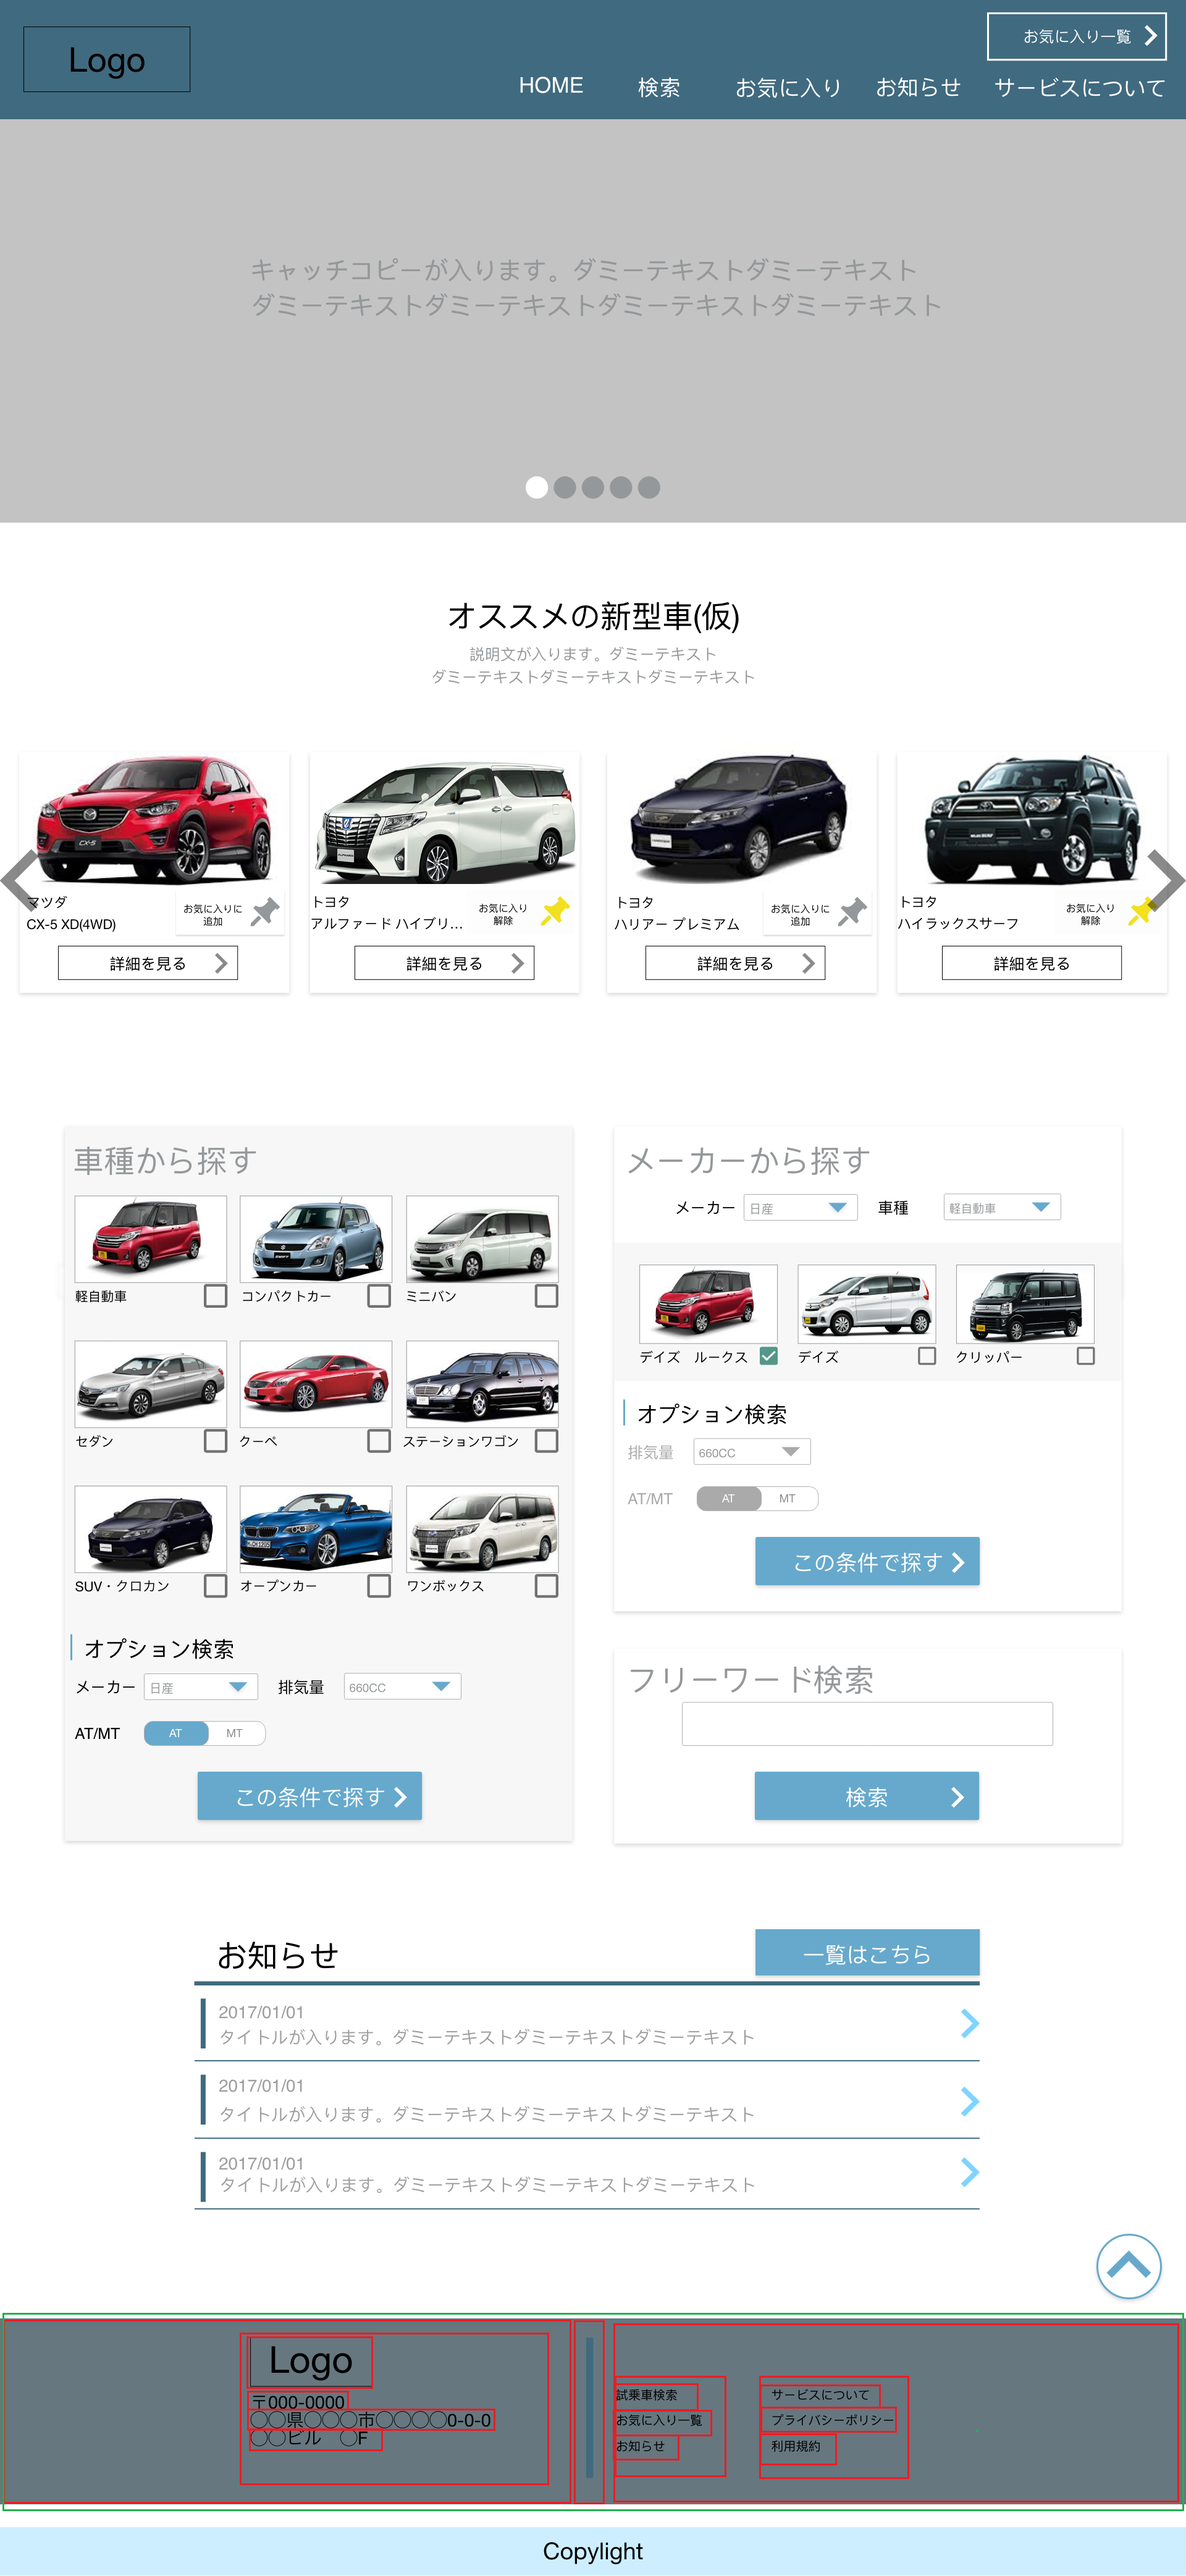
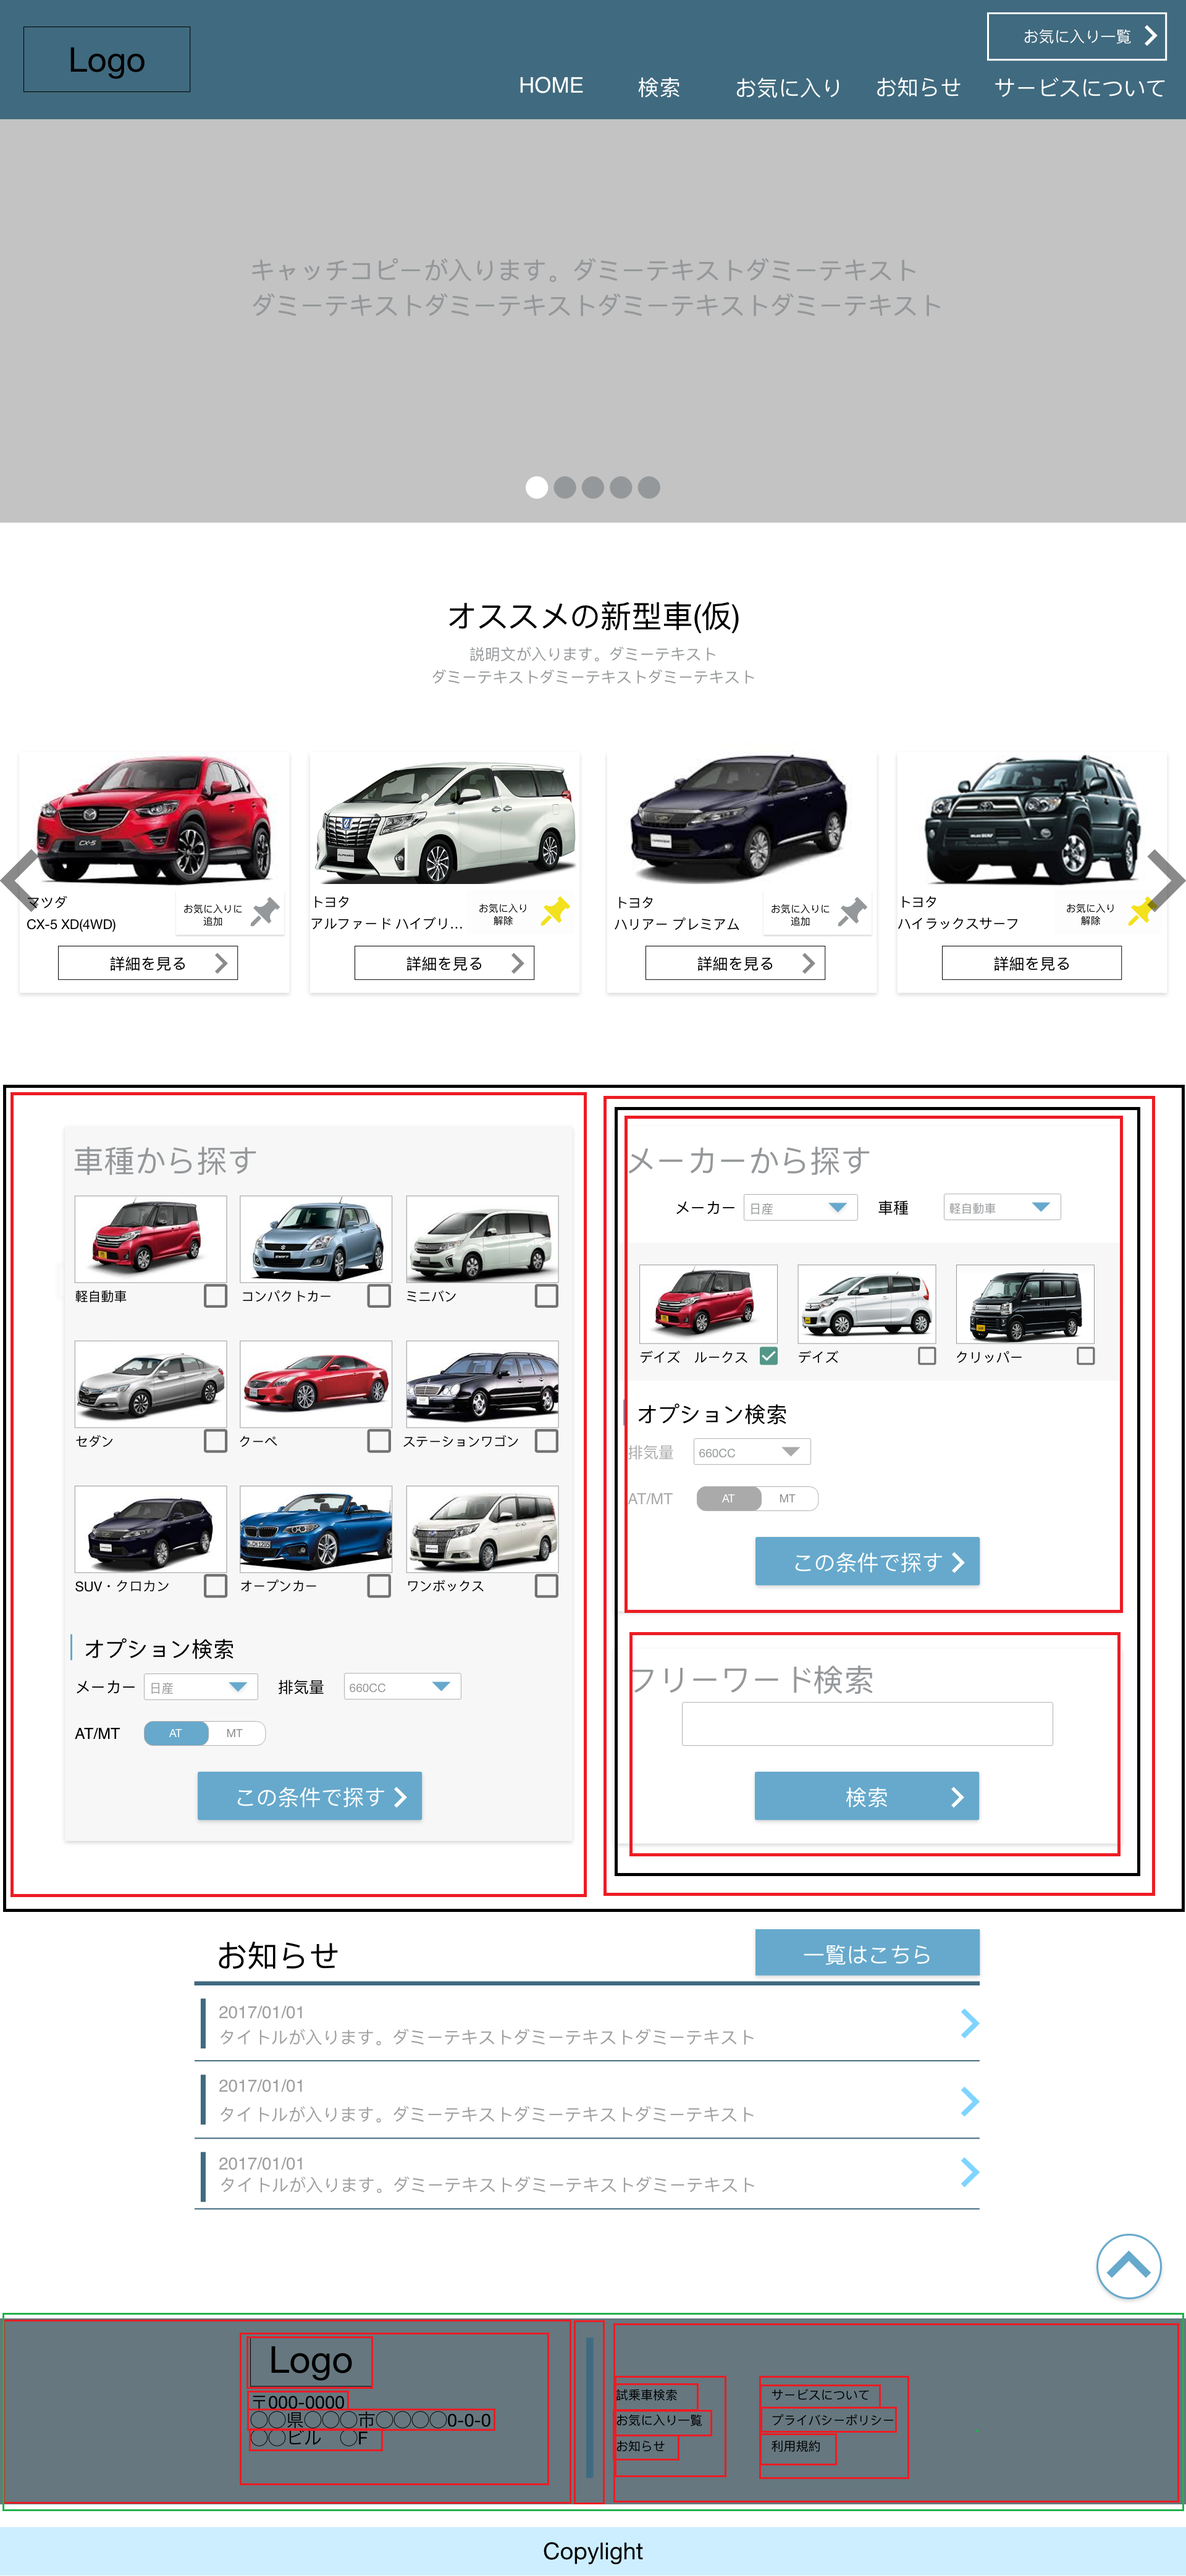
Adding free search section

Changed region(s): [[0.4688, 0.4053, 1.0, 0.7482], [0.0, 0.4053, 0.0312, 0.7482]]

diff --git a/index.html b/index.html
@@ -713,134 +713,160 @@
           <section class="d-md-none mobileWhiteSpace"></section>
 
           <!-- Right Side - Search by Maker section -->
-          <div class="col searchByMaker ms-md-5">
-            <div class="makerTitle">
-              <h1 class="text-black-50">Search by Maker</h1>
-            </div>
-            <div class="makerDropdownMenu">
-              <h5 class="d-inline mt-2 align-middle mx-3">Maker</h5>
-              <!-- Need to make a regular dropdown with custom CSS for inserting the img file in assets folder for the dropdown arrow -->
-              <div class="btn-group">
-                <button
-                  type="button"
-                  class="btn btn-white dropdown-toggle"
-                  data-bs-toggle="dropdown"
-                  aria-expanded="false"
-                >
-                  Action
-                </button>
-                <ul class="dropdown-menu">
-                  <li><a class="dropdown-item" href="#">Nissan</a></li>
-                </ul>
-              </div>
-              <h5 class="d-inline mt-2 align-middle mx-3">Model Type</h5>
-              <!-- Need to make a regular dropdown with custom CSS for inserting the img file in assets folder for the dropdown arrow -->
-              <div class="btn-group">
-                <button
-                  type="button"
-                  class="btn btn-white dropdown-toggle"
-                  data-bs-toggle="dropdown"
-                  aria-expanded="false"
-                >
-                  Action
-                </button>
-                <ul class="dropdown-menu">
-                  <li><a class="dropdown-item" href="#">Light Car</a></li>
-                </ul>
-              </div>
-            </div>
-            <!-- Need to add JS for check box to change from unchecked-checked image -->
-            <div class="makerCarCheckbox">
-              <div class="container px-0">
-                <div class="row row-cols-3 m-0 pt-3">
-                  <!-- car 1 -->
-                  <div class="col">
-                    <img
-                      class="img-fluid"
-                      src="./assets/img/catalog/content/car1.png"
-                      alt="light car"
-                    />
-                    <p class="carModelText me-4">Light Car</p>
-                    <img
-                      src="./assets/img/icon/checkboxUnchecked.png"
-                      alt=""
-                      class="img-fluid float-end"
-                    />
+          <div class="col ms-md-5">
+            <div class="row">
+              <div class="col searchUpper searchByMaker">
+                <div class="makerTitle">
+                  <h1 class="text-black-50">Search by Maker</h1>
+                </div>
+                <div class="makerDropdownMenu">
+                  <h5 class="d-inline mt-2 align-middle mx-3">Maker</h5>
+                  <!-- Need to make a regular dropdown with custom CSS for inserting the img file in assets folder for the dropdown arrow -->
+                  <div class="btn-group">
+                    <button
+                      type="button"
+                      class="btn btn-white dropdown-toggle"
+                      data-bs-toggle="dropdown"
+                      aria-expanded="false"
+                    >
+                      Action
+                    </button>
+                    <ul class="dropdown-menu">
+                      <li><a class="dropdown-item" href="#">Nissan</a></li>
+                    </ul>
                   </div>
-                  <!-- car 2 -->
-                  <div class="col">
-                    <img
-                      class="img-fluid"
-                      src="./assets/img/catalog/content/car2.png"
-                      alt="light car"
-                    />
-                    <p class="carModelText me-4">Hatchback</p>
-                    <img
-                      src="./assets/img/icon/checkboxUnchecked.png"
-                      alt=""
-                      class="img-fluid float-end"
-                    />
+                  <h5 class="d-inline mt-2 align-middle mx-3">Model Type</h5>
+                  <!-- Need to make a regular dropdown with custom CSS for inserting the img file in assets folder for the dropdown arrow -->
+                  <div class="btn-group">
+                    <button
+                      type="button"
+                      class="btn btn-white dropdown-toggle"
+                      data-bs-toggle="dropdown"
+                      aria-expanded="false"
+                    >
+                      Action
+                    </button>
+                    <ul class="dropdown-menu">
+                      <li><a class="dropdown-item" href="#">Light Car</a></li>
+                    </ul>
                   </div>
-                  <!-- car 3 -->
-                  <div class="col">
-                    <img
-                      class="img-fluid"
-                      src="./assets/img/catalog/content/car3.png"
-                      alt="light car"
-                    />
-                    <p class="carModelText me-4">Mini Van</p>
-                    <img
-                      src="./assets/img/icon/checkboxUnchecked.png"
-                      alt=""
-                      class="img-fluid float-end"
-                    />
+                </div>
+                <!-- Need to add JS for check box to change from unchecked-checked image -->
+                <div class="makerCarCheckbox">
+                  <div class="container px-0">
+                    <div class="row row-cols-3 m-0 pt-3">
+                      <!-- car 1 -->
+                      <div class="col">
+                        <img
+                          class="img-fluid"
+                          src="./assets/img/catalog/content/car1.png"
+                          alt="light car"
+                        />
+                        <p class="carModelText me-4">Light Car</p>
+                        <img
+                          src="./assets/img/icon/checkboxUnchecked.png"
+                          alt=""
+                          class="img-fluid float-end"
+                        />
+                      </div>
+                      <!-- car 2 -->
+                      <div class="col">
+                        <img
+                          class="img-fluid"
+                          src="./assets/img/catalog/content/car2.png"
+                          alt="light car"
+                        />
+                        <p class="carModelText me-4">Hatchback</p>
+                        <img
+                          src="./assets/img/icon/checkboxUnchecked.png"
+                          alt=""
+                          class="img-fluid float-end"
+                        />
+                      </div>
+                      <!-- car 3 -->
+                      <div class="col">
+                        <img
+                          class="img-fluid"
+                          src="./assets/img/catalog/content/car3.png"
+                          alt="light car"
+                        />
+                        <p class="carModelText me-4">Mini Van</p>
+                        <img
+                          src="./assets/img/icon/checkboxUnchecked.png"
+                          alt=""
+                          class="img-fluid float-end"
+                        />
+                      </div>
+                    </div>
+                  </div>
+                </div>
+                <h3 class="mt-3">
+                  <div class="delimiter d-inline mx-2"></div>
+                  Option Search
+                </h3>
+
+                <h5 class="d-inline align-middle mx-3">Engine Size</h5>
+                <!-- Need to make a regular dropdown with custom CSS for inserting the img file in assets folder for the dropdown arrow -->
+                <div class="btn-group">
+                  <button
+                    type="button"
+                    class="btn btn-white dropdown-toggle"
+                    data-bs-toggle="dropdown"
+                    aria-expanded="false"
+                  >
+                    Action
+                  </button>
+                  <ul class="dropdown-menu">
+                    <li><a class="dropdown-item" href="#">660CC</a></li>
+                    <li><a class="dropdown-item" href="#">990CC</a></li>
+                    <li><a class="dropdown-item" href="#">1000CC</a></li>
+                    <li><a class="dropdown-item" href="#">1500CC</a></li>
+                    <li><a class="dropdown-item" href="#">1800CC</a></li>
+                    <li><a class="dropdown-item" href="#">2000CC</a></li>
+                  </ul>
+                </div>
+
+                <!-- Switch Toggler - need customer CSS from video and then insert txt into it?? -->
+                <input class="d-block my-3" type="checkbox" id="switch" /><label
+                  for="switch"
+                  >Toggle - make custom css?</label
+                >
+
+                <!-- Option search - copy from the other side, then change colors -->
+                <div class="optionSearch">
+                  <div class="searchButton mt-4">
+                    <button class="searchBySettings">
+                      Search with these settings
+                      <img
+                        class="searchButtonArrow"
+                        src="./assets/img/icon/arrowButton.png"
+                        alt="white arrow"
+                      />
+                    </button>
                   </div>
                 </div>
               </div>
-            </div>
-            <h3 class="mt-3">
-              <div class="delimiter d-inline mx-2"></div>
-              Option Search
-            </h3>
-
-            <h5 class="d-inline align-middle mx-3">Engine Size</h5>
-            <!-- Need to make a regular dropdown with custom CSS for inserting the img file in assets folder for the dropdown arrow -->
-            <div class="btn-group">
-              <button
-                type="button"
-                class="btn btn-white dropdown-toggle"
-                data-bs-toggle="dropdown"
-                aria-expanded="false"
-              >
-                Action
-              </button>
-              <ul class="dropdown-menu">
-                <li><a class="dropdown-item" href="#">660CC</a></li>
-                <li><a class="dropdown-item" href="#">990CC</a></li>
-                <li><a class="dropdown-item" href="#">1000CC</a></li>
-                <li><a class="dropdown-item" href="#">1500CC</a></li>
-                <li><a class="dropdown-item" href="#">1800CC</a></li>
-                <li><a class="dropdown-item" href="#">2000CC</a></li>
-              </ul>
-            </div>
-
-            <!-- Switch Toggler - need customer CSS from video and then insert txt into it?? -->
-            <input class="d-block my-3" type="checkbox" id="switch" /><label
-              for="switch"
-              >Toggle - make custom css?</label
-            >
-
-            <!-- Option search - copy from the other side, then change colors -->
-            <div class="optionSearch">
-              <div class="searchButton mt-4">
-                <button class="searchBySettings">
-                  Search with these settings
-                  <img
-                    class="searchButtonArrow"
-                    src="./assets/img/icon/arrowButton.png"
-                    alt="white arrow"
-                  />
-                </button>
+              <div class="w-100"></div>
+              <div class="col searchLower">
+                <div class="row justify-content-end">
+                  <div class="col freeSearch">
+                    <div class="makerTitle">
+                      <h1 class="text-black-50 text-center">
+                        Free word Search
+                      </h1>
+                    </div>
+                    <div class="searchButton mt-4">
+                      <button class="freeSearchBtn">
+                        Search with these settings
+                        <img
+                          class="searchButtonArrow"
+                          src="./assets/img/icon/arrowButton.png"
+                          alt="white arrow"
+                        />
+                      </button>
+                    </div>
+                  </div>
+                </div>
               </div>
             </div>
           </div>
@@ -849,7 +875,7 @@
       <!-- End of Search for Cars section -->
     </section>
 
-    <!-- News section WIP -->
+    <!-- News section - COMPLETE -->
     <section id="お知らせ" class="my-5">
       <div
         class="container news d-flex justify-content-center align-items-center"

diff --git a/css/style.css b/css/style.css
@@ -10,7 +10,7 @@
   color: #406a7f;
 }
 
-/* Carousel indicators */
+/* Carousel section - indicators */
 .carousel .carousel-indicators li {
   width: 10px;
   height: 10px;
@@ -20,24 +20,7 @@
   cursor: pointer;
 }
 
-/* Adding heigh restriction to carousel - uncomment to acivate */
-/* .image-carousel {
-  object-fit: cover;
-  object-position: center;
-  overflow: hidden;
-  height: 100vh;
-} */
-
-/* Adding height restriction to left and right navigation arrows */
-/* .carousel-control-prev .carousel-control-next .carousel-indicators {
-  height: 50vh;
-} */
-
-/* Adding class to carousel div and height restriction to div */
-/* .carousel-height {
-  height: 80vh;
-} */
-
+/* Swiper section */
 .swiper {
   height: 285px;
   width: 100%;
@@ -295,6 +278,7 @@
   height: 15px;
 }
 
+/* Search for cars by Brand or Maker Section */
 .searchForCars {
   display: flex;
 }
@@ -334,8 +318,12 @@
 
 .searchByMaker {
   padding: 20px 0px;
-  
   box-shadow: 0px 0px 5px -1px rgba(138, 138, 138, 0.6);
+}
+
+.freeSearch {
+    padding: 20px 0px;
+    box-shadow: 0px 0px 5px -1px rgba(138, 138, 138, 0.6);
 }
 
 .makerCarCheckbox {
@@ -356,6 +344,20 @@
   margin: 10px;
   height: 20px;
 }
+
+/* Free Search section */
+.freeSearch {
+}
+
+.freeSearchBtn {
+  background-color: #66a9cc;
+  color: #fff;
+  border: none;
+  border-radius: 4px;
+  height: 60px;
+  width: 250px;
+}
+
 /* News Section */
 @media only screen and (max-width: 576px) {
   .news {
@@ -409,6 +411,17 @@
   border-radius: 4px;
   height: 50px;
   width: 190px;
+}
+
+@media only screen and (max-width: 400px) {
+  .newsBtnBig {
+    background-color: #66a9cc;
+      color: #fff;
+      border: none;
+      border-radius: 4px;
+      height: 40px;
+      width: 150px;
+  }
 }
 
 .newsText {
